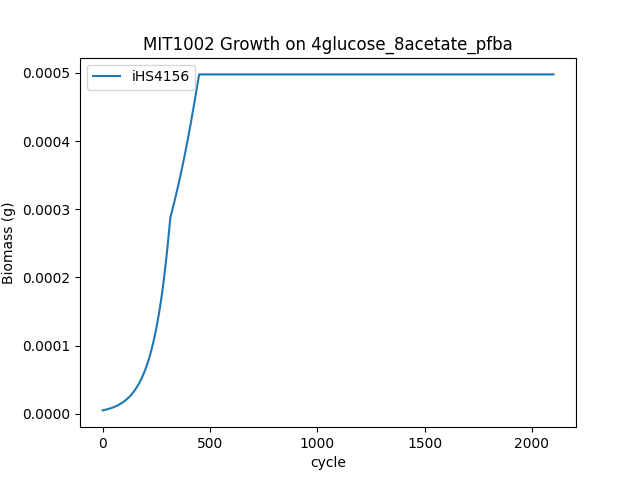
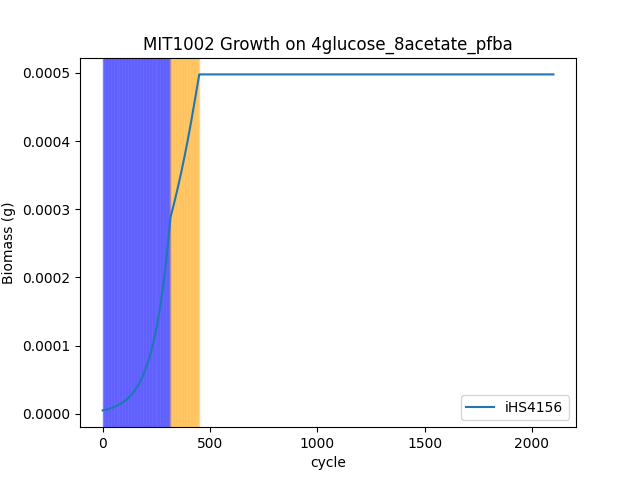
Shade regions based on exchange fluxes

Changed region(s): [[0.125, 0.125, 0.3125, 0.9062], [0.7812, 0.8125, 0.875, 0.875], [0.7188, 0.8438, 0.75, 0.875]]

diff --git a/mit1002_full/glc_vs_ace_timecourse/simulation/plot_results.py b/mit1002_full/glc_vs_ace_timecourse/simulation/plot_results.py
@@ -22,8 +22,22 @@ for filename in os.listdir(RESULTS_DIR):
         # Take "_results.pkl" off the end of the filename to get the experiment name
         c_source_name = filename.split("_results.pkl")[0]
 
+        # Find the cycles where the glucose exchange flux in negative
+        glucose_exchange_flux = experiment.fluxes_by_species[model_id]["EX_cpd00027_e0"]
+        glucose_cycles = glucose_exchange_flux[glucose_exchange_flux < 0].index
+
+        # Find the cycles where the acetate exchange flux is negative
+        acetate_exchange_flux = experiment.fluxes_by_species[model_id]["EX_cpd00029_e0"]
+        acetate_cycles = acetate_exchange_flux[acetate_exchange_flux < 0].index
+
         # Plot the biomass over time
         ax = experiment.total_biomass.plot(x="cycle")
+        # Shade in the cycles where glucose is being consumed
+        for cycle in glucose_cycles:
+            ax.axvspan(cycle - 0.5, cycle + 0.5, color="blue", alpha=0.1)
+        # Shade in the cycles where acetate is being consumed
+        for cycle in acetate_cycles:
+            ax.axvspan(cycle - 0.5, cycle + 0.5, color="orange", alpha=0.1)
         # Style the plot
         ax.set_ylabel("Biomass (g)")
         ax.set_title(f"MIT1002 Growth on {c_source_name}")
@@ -31,6 +45,12 @@ for filename in os.listdir(RESULTS_DIR):
 
         # Plot the growth rate over time
         ax = experiment.fluxes_by_species[model_id].plot(x="cycle", y=biomass_id)
+        # Shade in the cycles where glucose is being consumed
+        for cycle in glucose_cycles:
+            ax.axvspan(cycle - 0.5, cycle + 0.5, color="blue", alpha=0.1)
+        # Shade in the cycles where acetate is being consumed
+        for cycle in acetate_cycles:
+            ax.axvspan(cycle - 0.5, cycle + 0.5, color="orange", alpha=0.1)
         # Style the plot
         ax.set_ylabel("Growth Rate (1/h)")
         ax.set_title(f"MIT1002 Growth Rate on {c_source_name}")
@@ -43,4 +63,6 @@ for filename in os.listdir(RESULTS_DIR):
         # Style the plot
         ax.set_ylabel("Exchange Flux (mmol/gDW/h)")
         ax.set_title(f"MIT1002 Exchange Fluxes on {c_source_name}")
-        ax.figure.savefig(os.path.join(PLOTS_DIR, f"{c_source_name}_exchange_fluxes.png"))
+        ax.figure.savefig(
+            os.path.join(PLOTS_DIR, f"{c_source_name}_exchange_fluxes.png")
+        )
